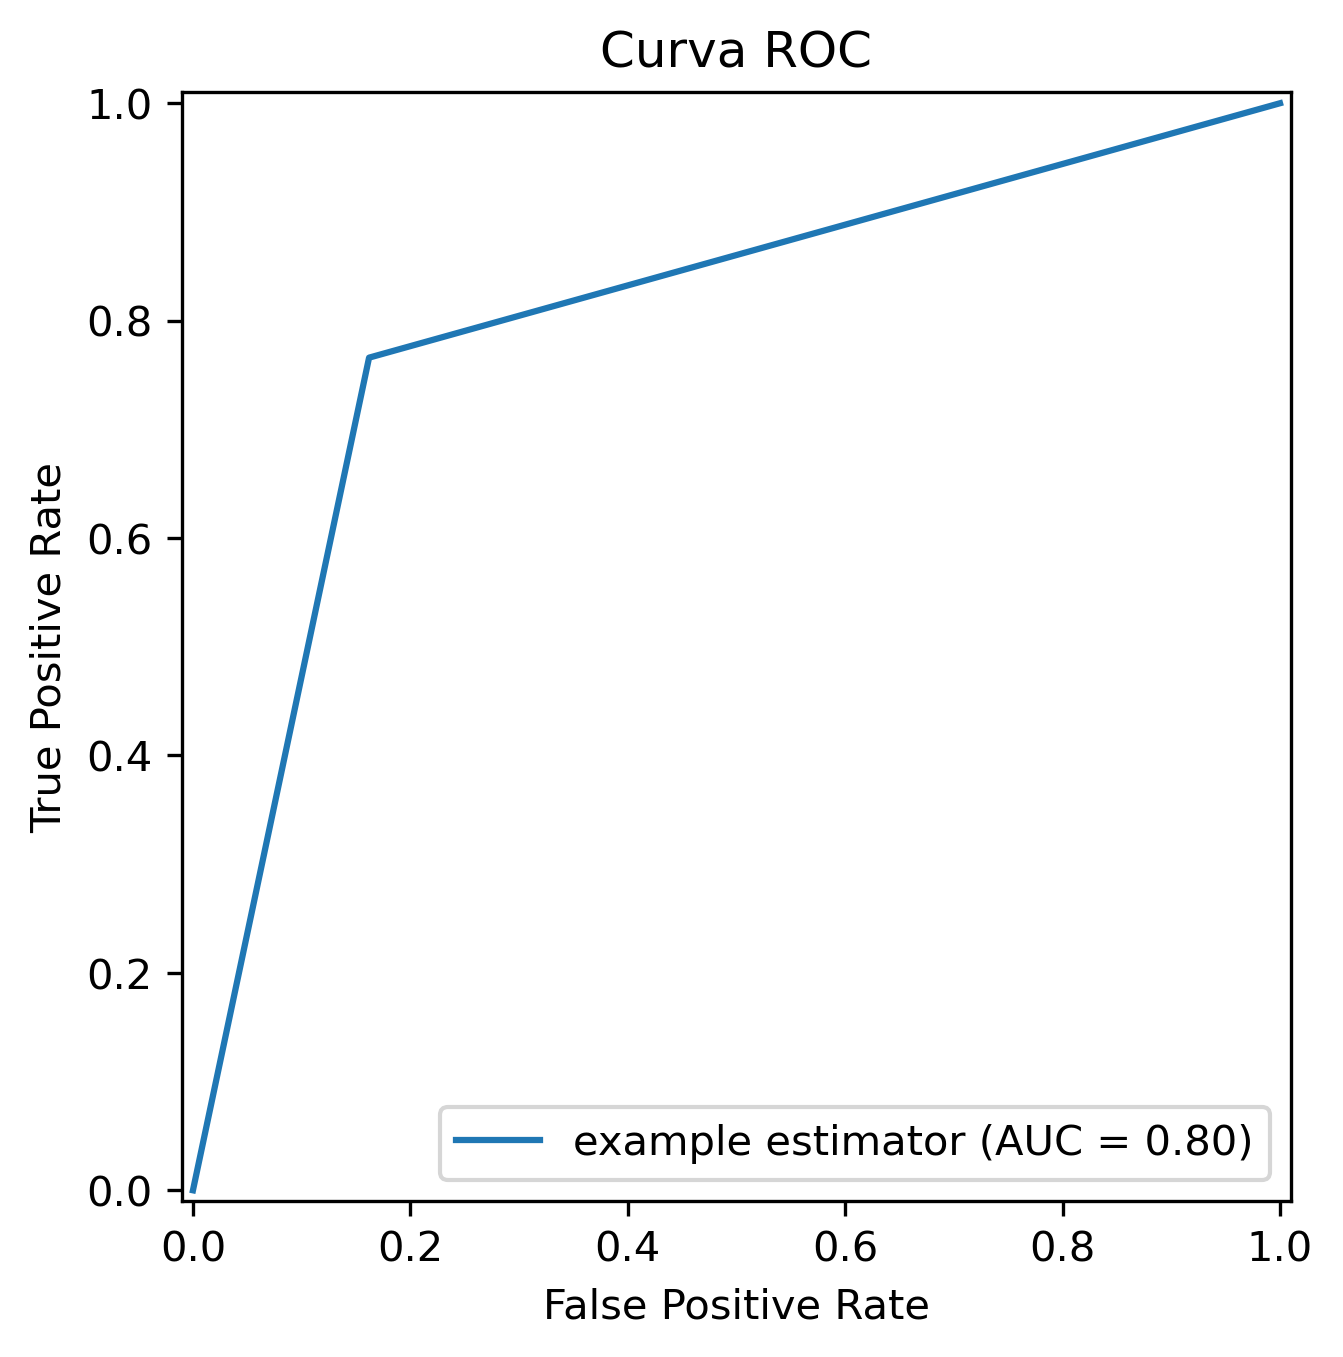
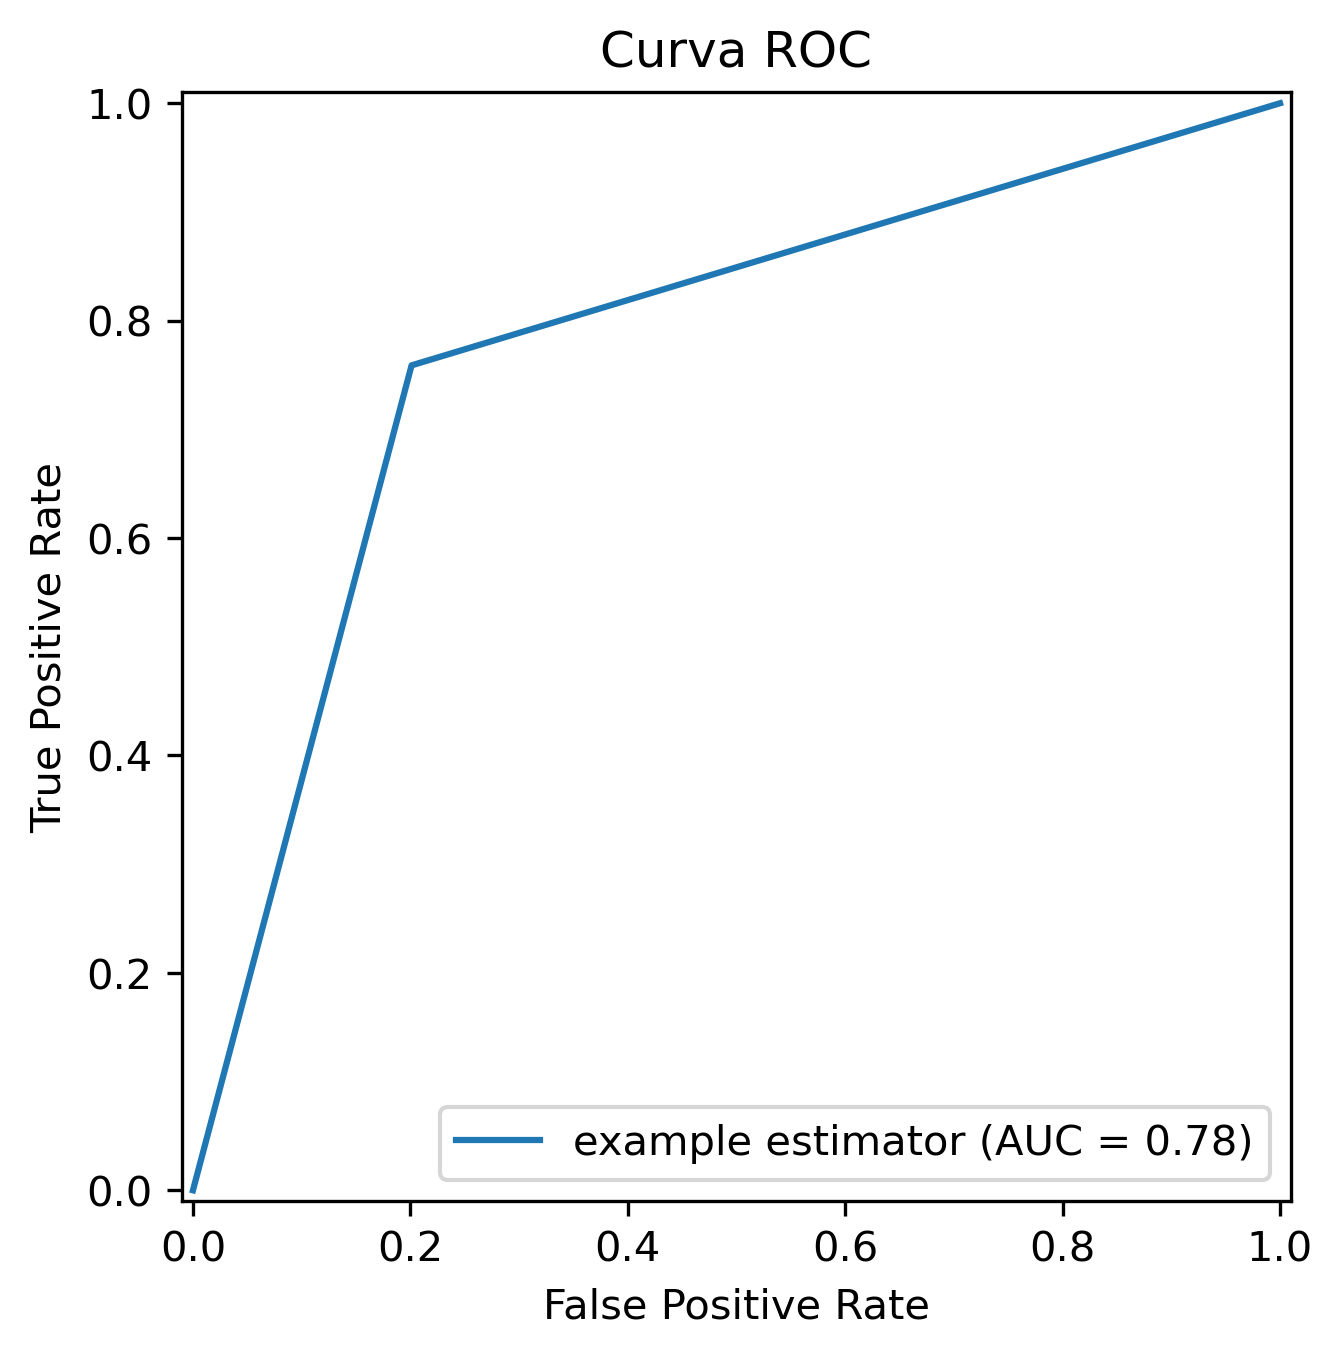
Agrega Modelos

Changed region(s): [[0.1526, 0.1238, 0.7937, 0.8357], [0.7937, 0.0929, 0.8853, 0.1238], [0.8853, 0.8357, 0.9159, 0.8666]]

diff --git a/core/modelos/modelo_ann.py b/core/modelos/modelo_ann.py
@@ -1,0 +1,77 @@
+# Librerías
+from sklearn.neural_network import MLPClassifier
+from sklearn.model_selection import cross_val_score, GridSearchCV
+from sklearn.metrics import classification_report, confusion_matrix
+
+# 9. **ANN - Multilayer Perceptron**
+class AnnClasificador:
+    '''Implementacón con grilla de hiperparámetros'''
+    def __init__(self, X_train, X_test, y_train, y_test):
+        self.X_train=X_train
+        self.X_test=X_test
+        self.y_train=y_train
+        self.y_test=y_test
+        self.y_pred=None
+        self.ann_model=None
+        self.grid_search=None
+        self.best_model=None
+        self.best_hiperparametros=None
+
+    def definir_modelo(self, hidden_layer_sizes=[(50,),(100,),(100,50),(50,25)], activation=['relu','tanh'], solver=['adam','sgd'], alpha=[0.0001, 0.001, 0.001], scoring='roc_auc', cv=None): # sin cv
+
+        '''Crea el modelo'''
+        self.ann_model = MLPClassifier()
+        print("\nModelo definido!\n")
+        
+        '''Define la grilla'''
+        param_grid = {
+            'hidden_layer_sizes': hidden_layer_sizes,  # Número de estimadores
+            'activation': activation,  # Profundidad máxima
+            'solver': solver,  # Mínima muestra para división
+            'alpha': alpha
+            }
+        
+        self.grid_search = GridSearchCV(
+        estimator=self.ann_model, 
+        param_grid=param_grid, 
+        scoring=scoring, 
+        cv=cv,  # Validación cruzada
+        verbose=1, 
+        n_jobs=-1
+        )
+    
+    def entrenar_modelo(self):
+        '''Entrena el modelo con la grilla'''
+        if self.grid_search is None:
+            raise ValueError("Se debe definir el modelo")
+        else:
+            self.grid_search.fit(self.X_train, self.y_train)
+
+        # Mejores hiperparámetros
+        self.best_hiperparametros=self.grid_search.best_params_
+
+        print("\nMejores hiperparámetros:\n")
+        print(self.best_hiperparametros)
+
+        print("\nModelo asignado!\n")
+        self.best_model = self.grid_search.best_estimator_
+
+    def reporte(self):
+        '''Reporte métricas'''
+        self.y_pred = self.best_model.predict(self.X_test)
+        print("\nReporte de clasificación mejor modelo:\n")
+        print(classification_report(self.y_test, self.y_pred))
+        return self.y_pred
+
+    def matriz_confusion(self):
+        '''Matriz de confusión'''
+        print("\nMatriz de confusión:\n")
+        print(confusion_matrix(self.y_test, self.y_pred))
+    
+    def predecir(self, X):
+        '''Predecir con el mejor modelo entrenado'''
+        if self.best_model is None:
+            raise ValueError("El modelo no ha sido entrenado")
+        else:
+            y = self.best_model.predict(X)
+        return y

diff --git a/main.py b/main.py
@@ -13,6 +13,7 @@ os.makedirs(path_imagenes, exist_ok=True)
 # Funciones y clases
 from core.utils import separa_num_cat, escala_num, balance, divide_train_test, ohe
 from core.estadistica import Correlacion
+
 from core.modelos.modelo_rf import BosqueAleatorioClasificador
 from core.modelos.modelo_svm import SupportVectorMachineClasificador
 from core.modelos.modelo_GaussianNB import NaiveBayes
@@ -24,6 +25,7 @@ from core.modelos.modelo_xgbm import ExtremoAumentoGradienteClasificador
 from core.modelos.modelo_lgbm import LivianoAumentoGradienteClasificador
 from core.modelos.modelo_cb import CategoricalBoostingClasificador
 from core.modelos.modelo_et import ArbolesExtraClasificador
+from core.modelos.modelo_ann import AnnClasificador
 
 from core.evaluacion import Evaluacion
 from core.modelos.error_rf import BosqueAleatorioError
@@ -281,6 +283,7 @@ y_pred=modelo_cb.predecir(X_test)
 # Extra Trees (Extemely Randomized Trees)
 '''
 # Modelo Extra Trees
+'''
 modelo_et=ArbolesExtraClasificador(X_train, X_test, y_train, y_test)
 
 n_estimators=[60, 100, 300]  # Iteraciones
@@ -292,6 +295,21 @@ cv=5
 modelo_et.definir_modelo(n_estimators, max_depth, min_samples_split, scoring, cv)
 modelo_et.entrenar_modelo()
 y_pred=modelo_et.predecir(X_test)
+'''
+
+# Modelo ANN (ANN - Multilayer Perceptron)
+modelo_ann=AnnClasificador(X_train, X_test, y_train, y_test)
+
+hidden_layer_sizes=[(50,),(100,),(100,50),(50,25)] # Capas ocultas
+activation=['relu','tanh'] # Función de activación
+solver=['adam','sgd'] # Solver
+alpha=[0.0001, 0.001, 0.001] # Alpha
+scoring='f1'
+cv=5
+
+modelo_ann.definir_modelo(hidden_layer_sizes, activation, solver, alpha, scoring, cv)
+modelo_ann.entrenar_modelo()
+y_pred=modelo_ann.predecir(X_test)
 
 # Evaluación
 evaluacion=Evaluacion(y_test, y_pred)
